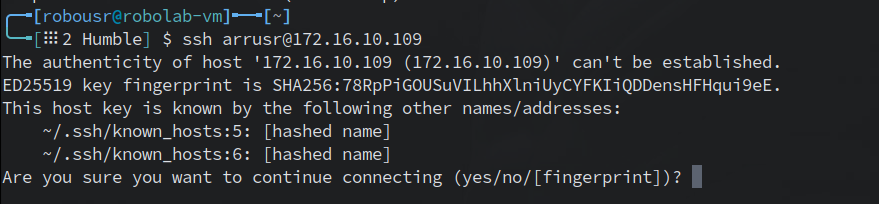
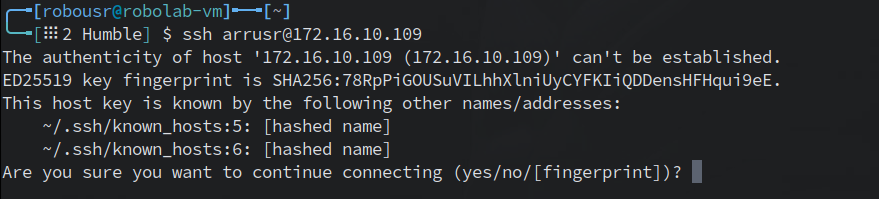
Updated SSH_en_ROS2 contents and related images.

diff --git a/docs/Networking/SSH_en_ROS2.md b/docs/Networking/SSH_en_ROS2.md
@@ -30,6 +30,8 @@ ECDSA key fingerprint is SHA256:abc123xyz456...
 Are you sure you want to continue connecting (yes/no)? yes
 ```
 
+![](../images/ssh_first_conn.png)
+
 Tras aceptar la conexión (`yes`), se pedirá la contraseña del usuario **arrusr**.  
 
 **Si la conexión es exitosa, la terminal cambiará a la del robot:**  
